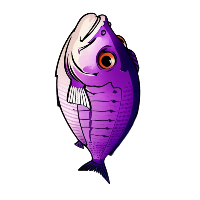
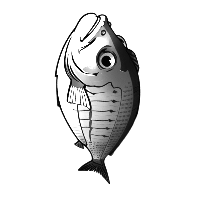
Implemented boid coloring based on boids in sight range

Changed region(s): [[0.27, 0.06, 0.72, 0.9]]

diff --git a/Code/Sources/Boid.cpp b/Code/Sources/Boid.cpp
@@ -18,6 +18,8 @@ mBaseDeltaTime(0),
 mIsTurningLeftDueToBorder(false),
 mIsTurningRightDueToBorder(false),
 mIsTurningLeftDueToPredator(false),
+mBaseColor(255, 255, 255),
+mVaryingColor(0, 0, 0),
 mIsTurningRightDueToPredator(false)
 {
 
@@ -88,6 +90,16 @@ void Boid::setSpriteTexture(sf::Texture &texture)
 void Boid::setSpriteTextureRectangle(sf::IntRect rectangle)
 {
     mSprite.setTextureRect(rectangle);
+}
+
+void Boid::setBaseColor(int red, int green, int blue)
+{
+    mBaseColor = sf::Color(red, green, blue);
+}
+
+void Boid::setVaryingColor(int red, int green, int blue)
+{
+    mVaryingColor = sf::Color(red, green, blue);
 }
 
 Boid::Border Boid::getBordersWithinSightRange(float borderLeft, float borderRight, float borderTop, float borderBottom)
@@ -420,6 +432,49 @@ bool Boid::updateSpinBasedOnBoidsInSightRange(std::vector<Boid *> &allBoids)
     return true;
 }
 
+bool Boid::updateColorBasedOnBoidsInSightRange(std::vector<Boid*> &allBoids)
+{
+    std::vector<Boid *> boidsInSightRange = getBoidsWithinSightRange(allBoids);
+
+    if (boidsInSightRange.size() <= 1)
+    {
+        mVaryingColor = sf::Color(0, 0, 0);
+        return false;
+    }
+
+    float sumOfRedColorFactorsOfBoidsInSightRange = 0;
+    float sumOfGreenColorFactorsOfBoidsInSightRange = 0;
+    float sumOfBlueColorFactorsOfBoidsInSightRange = 0;
+
+    int numberOfBoidsInSightRange = boidsInSightRange.size();
+
+    for (int i = 0; i < numberOfBoidsInSightRange; i++)
+    {
+        if ((boidsInSightRange[i]->mVaryingColor.r == 0 && boidsInSightRange[i]->mVaryingColor.g == 0 && boidsInSightRange[i]->mVaryingColor.b == 0) || boidsInSightRange[i] == this)
+        {
+            sumOfRedColorFactorsOfBoidsInSightRange += boidsInSightRange[i]->mBaseColor.r;
+            sumOfGreenColorFactorsOfBoidsInSightRange += boidsInSightRange[i]->mBaseColor.g;
+            sumOfBlueColorFactorsOfBoidsInSightRange += boidsInSightRange[i]->mBaseColor.b;
+        }
+        else
+        {
+            sumOfRedColorFactorsOfBoidsInSightRange += boidsInSightRange[i]->mVaryingColor.r;
+            sumOfGreenColorFactorsOfBoidsInSightRange += boidsInSightRange[i]->mVaryingColor.g;
+            sumOfBlueColorFactorsOfBoidsInSightRange += boidsInSightRange[i]->mVaryingColor.b;
+        }
+    }
+
+    float averageRedColorFactorsOfBoidsInSightRange = sumOfRedColorFactorsOfBoidsInSightRange/numberOfBoidsInSightRange;
+    float averageGreenColorFactorsOfBoidsInSightRange = sumOfGreenColorFactorsOfBoidsInSightRange/numberOfBoidsInSightRange;
+    float averageBlueColorFactorsOfBoidsInSightRange = sumOfBlueColorFactorsOfBoidsInSightRange/numberOfBoidsInSightRange;
+
+    GlobalFunctions::increaseColorIntensity(averageRedColorFactorsOfBoidsInSightRange, averageGreenColorFactorsOfBoidsInSightRange, averageBlueColorFactorsOfBoidsInSightRange);
+
+    mVaryingColor = sf::Color(averageRedColorFactorsOfBoidsInSightRange, averageGreenColorFactorsOfBoidsInSightRange, averageBlueColorFactorsOfBoidsInSightRange);
+
+    return true;
+}
+
 void Boid::applySpin(float deltaTime)
 {
     mRotation += mSpin * (deltaTime / mBaseDeltaTime);
@@ -461,5 +516,13 @@ void Boid::draw(sf::RenderWindow &window)
 {
     mSprite.setPosition(mPositionX, mPositionY);
     mSprite.setRotation(mRotation);
+    if (mVaryingColor.r == 0 && mVaryingColor.g == 0 && mVaryingColor.b == 0)
+    {
+        mSprite.setColor(mBaseColor);
+    }
+    else
+    {
+        mSprite.setColor(mVaryingColor);
+    }
     window.draw(mSprite);
 }

diff --git a/Code/Headers/Boid.h b/Code/Headers/Boid.h
@@ -41,6 +41,9 @@ private:
 
     sf::Sprite mSprite;//boid sprite object represents its visuals (mostly texture and its attributes)
 
+    sf::Color mBaseColor;//represents the base RGB color that will multiply the texture
+    sf::Color mVaryingColor;//represents the RGB color dependent on boids in sight range
+
     float mBaseDeltaTime;//what time should the program take for one full update
 
 public:
@@ -64,6 +67,10 @@ public:
     void setSpriteTexture(sf::Texture &texture);
     void setSpriteTextureRectangle(sf::IntRect rectangle);
 
+    //setter for the color objects
+    void setBaseColor(int red, int green, int blue);
+    void setVaryingColor(int red, int green, int blue);
+
     //returns information about whether any of the specified border coordinates are within sight range
     Border getBordersWithinSightRange(float borderLeft, float borderRight, float borderTop, float borderBottom);
 
@@ -78,6 +85,9 @@ public:
     bool updateSpinBasedOnPredator(float predatorPositionX, float predatorPositionY);
     bool updateSpinBasedOnCollisionsWithOtherBoids(std::vector<Boid*> &allBoids);
     bool updateSpinBasedOnBoidsInSightRange(std::vector<Boid*> &allBoids);
+
+    //if there are boids in sight range the mVaryingColor will be the average of these colors
+    bool updateColorBasedOnBoidsInSightRange(std::vector<Boid*> &allBoids);
 
     //adds the mSpin value to mRotation as a way of updating it and then makes sure the mRotation is in <0,360) range
     void applySpin(float deltaTime);

diff --git a/Code/Sources/Aquarium.cpp b/Code/Sources/Aquarium.cpp
@@ -53,6 +53,7 @@ void Aquarium::setAllBoidsProperties()
         mBoids[i]->setSpriteOrigin(100, 100);
         mBoids[i]->setSpriteScale(GameProperties::boidSpriteScaleX, GameProperties::boidSpriteScaleY);
         mBoids[i]->setSpriteTextureRectangle(sf::IntRect(0, 0, 200, 200));
+        mBoids[i]->setBaseColor(GlobalFunctions::getRandomValueInRange(1, 256), GlobalFunctions::getRandomValueInRange(1, 256), GlobalFunctions::getRandomValueInRange(1, 256));
     }
 }
 
@@ -73,7 +74,8 @@ void Aquarium::update(float deltaTime, sf::RenderWindow &window)
                 }
             }
         }
-
+        mBoids[i]->setVaryingColor(0, 0, 0);
+        mBoids[i]->updateColorBasedOnBoidsInSightRange(mBoids);
         mBoids[i]->applySpin(deltaTime);
         mBoids[i]->recalculateForwardDirectionVectorFromRotation();
         mBoids[i]->recalculateLeftDirectionVectorFromRotation();

diff --git a/Code/Sources/GlobalFunctions.cpp b/Code/Sources/GlobalFunctions.cpp
@@ -18,3 +18,43 @@ float GlobalFunctions::getObjectRotationFromDirectionVector(float directionVecto
     }
     return rotation;
 }
+
+void GlobalFunctions::increaseColorIntensity(float &r, float &g, float &b)
+{
+    if (r < g && r < b)//Red is the smallest RGB component of mVaryingColor
+    {
+        r = 0;
+        if (g < b)
+        {
+            b = 255;
+        }
+        else
+        {
+            g = 255;
+        }
+    }
+    else if (g < b)//Green is the smallest RGB component of mVaryingColor
+    {
+        g = 0;
+        if (r < b)
+        {
+            b = 255;
+        }
+        else
+        {
+            r = 255;
+        }
+    }
+    else//Blue is the smallest RGB component of mVaryingColor
+    {
+        b = 0;
+        if (r < g)
+        {
+            g = 255;
+        }
+        else
+        {
+            r = 255;
+        }
+    }
+}

diff --git a/Code/Headers/GlobalFunctions.h b/Code/Headers/GlobalFunctions.h
@@ -10,6 +10,9 @@ public:
     static int getRandomValueInRange(int min, int max);
 
     static float getObjectRotationFromDirectionVector(float directionVectorX, float directionVectorY);
+
+    //a function implemented so that the varying color doesn't default to gray due to being the average of colors of nearby boids, it zeroes the smallest RGB component and maxes out the highest one
+    static void increaseColorIntensity(float &r, float &g, float &b);
 };
 
 #endif //BOIDSWITHSFML_GLOBALFUNCTIONS_H
